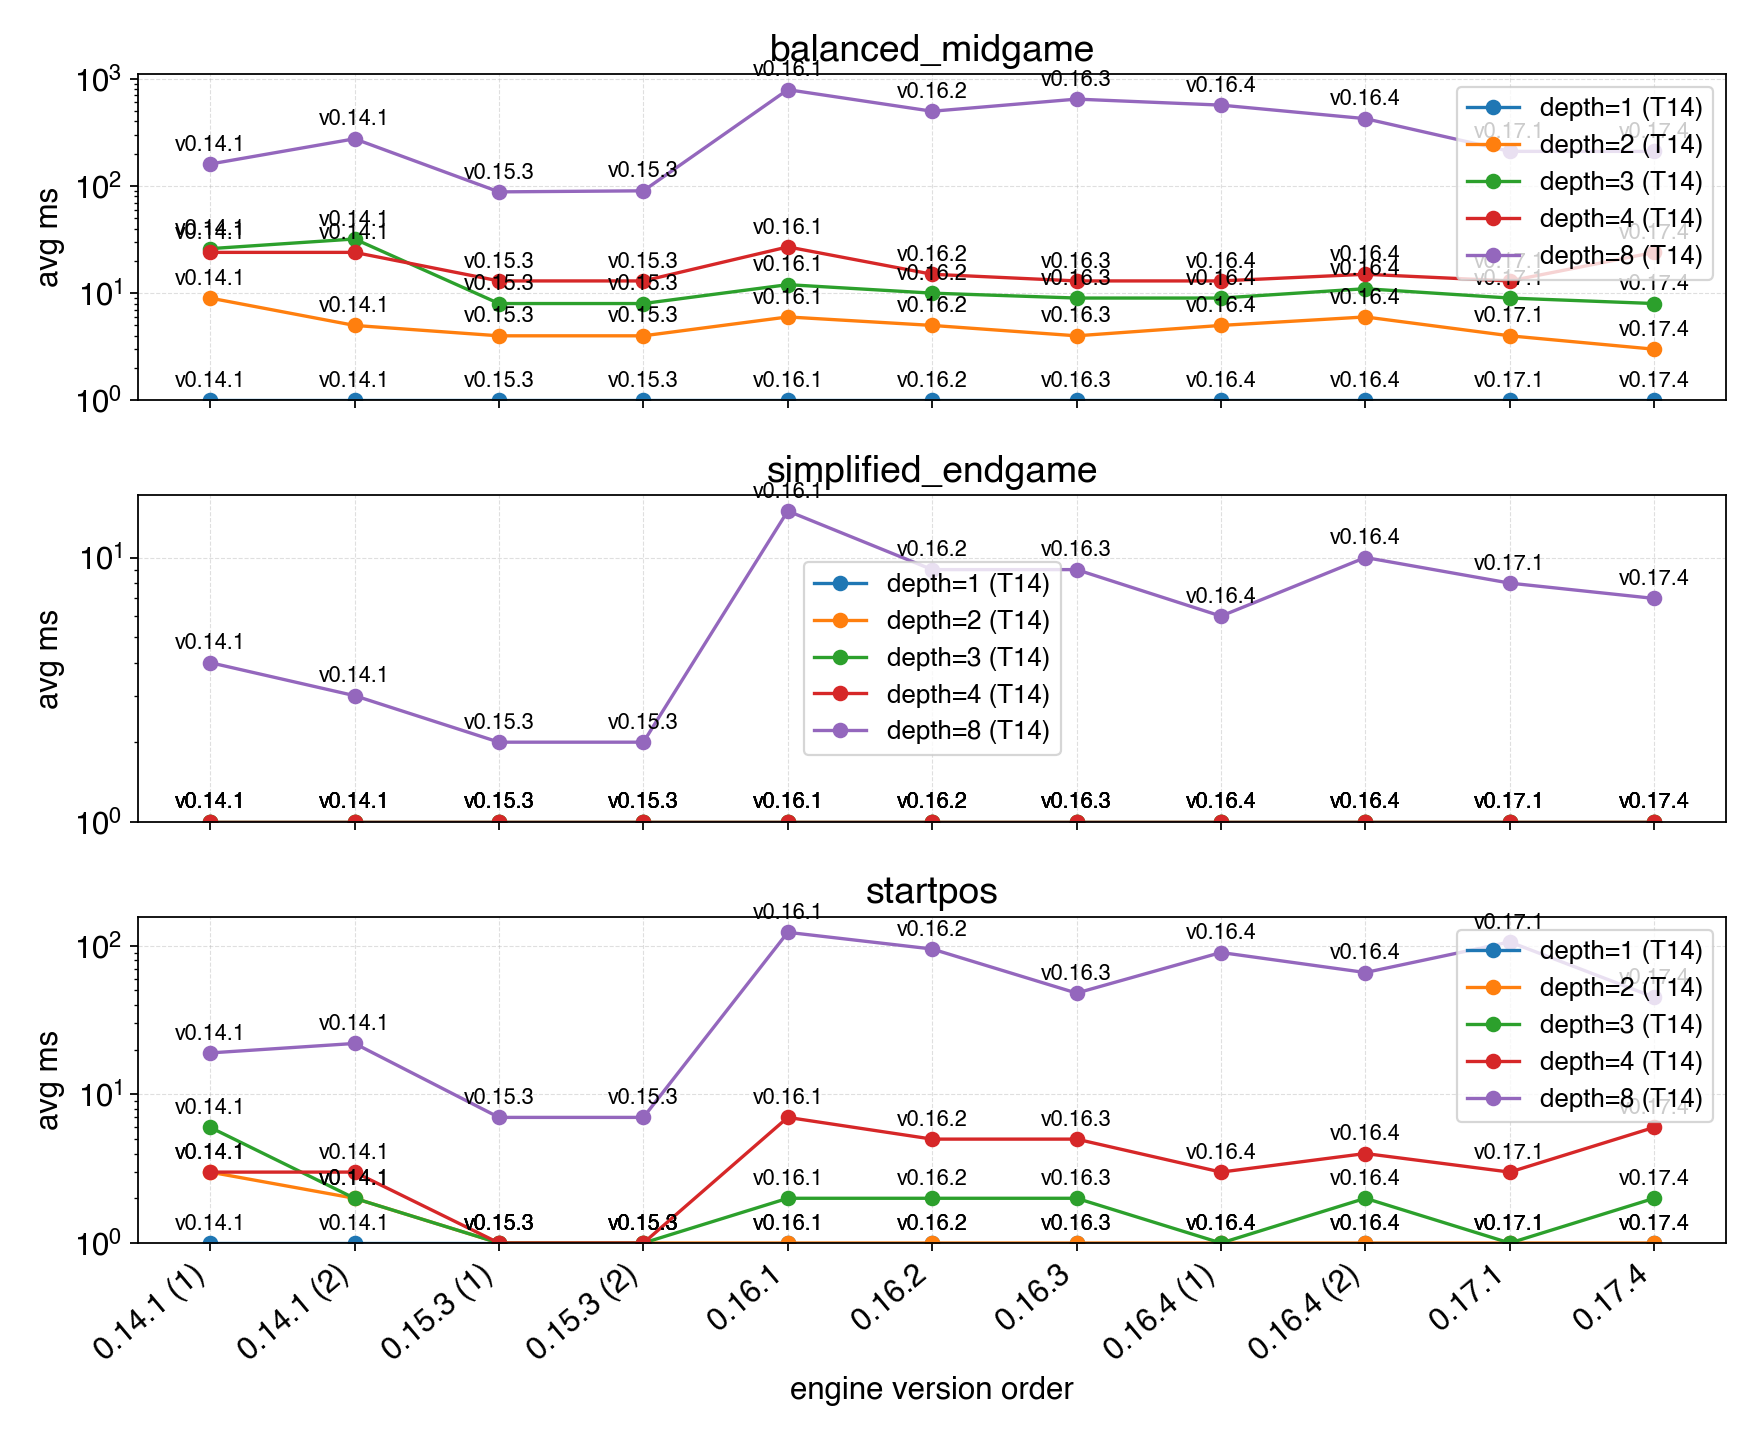
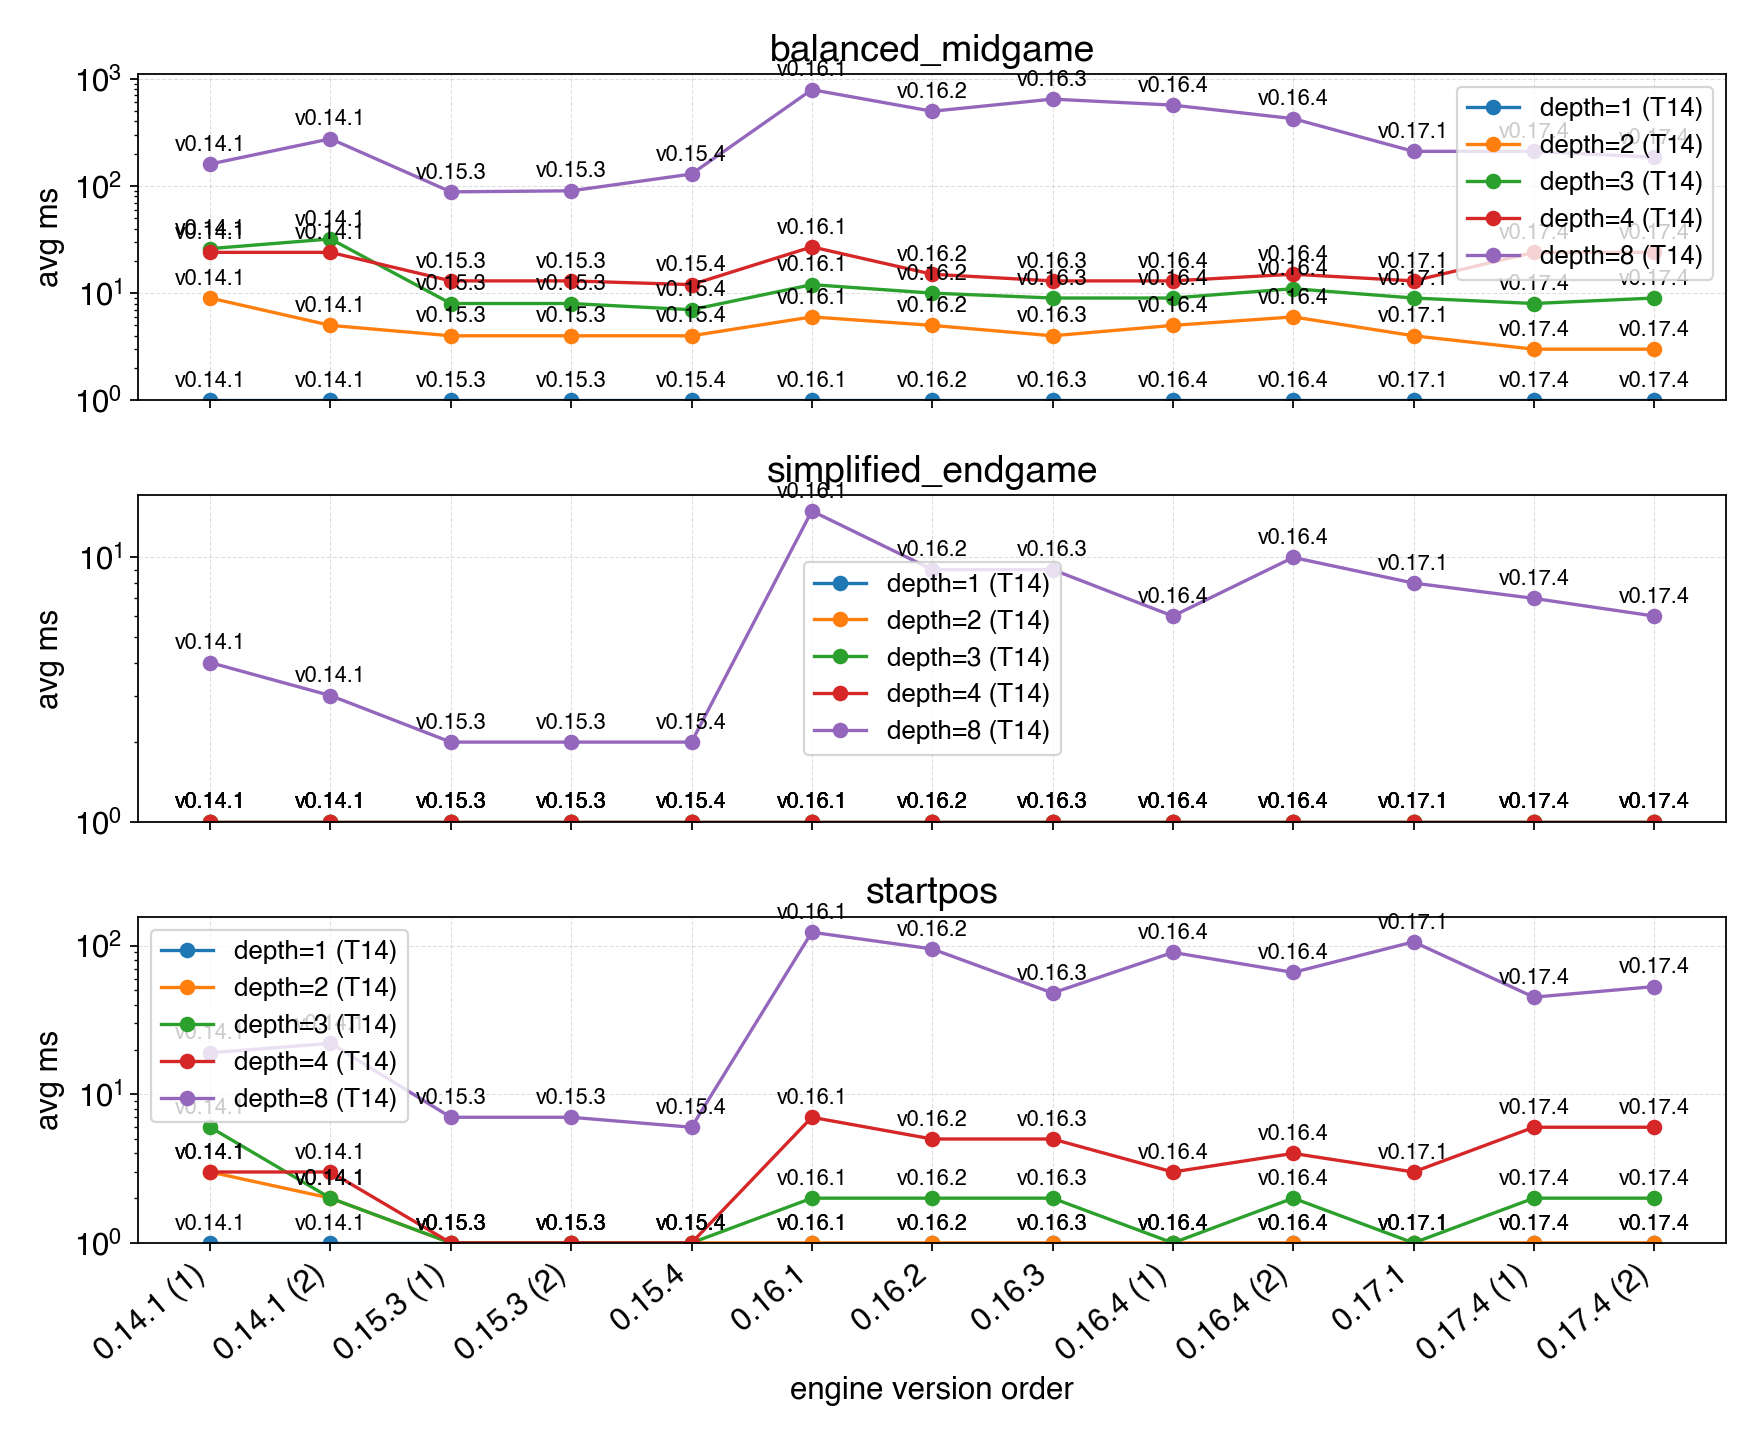
uci go infinite

diff --git a/src/uci.cpp b/src/uci.cpp
@@ -351,6 +351,7 @@ struct GoParameters {
   chess::SearchLimits limits;
   bool ponder = false;
   bool depth_explicit = false;
+  bool infinite = false;
 };
 
 std::atomic<int> g_info_depth_cap{0};
@@ -378,6 +379,7 @@ GoParameters parse_go_arguments(std::string_view args, int fallback_depth) {
   bool have_increment = false;
   bool have_movetime = false;
   bool ponder = false;
+  bool infinite = false;
 
   while (stream >> token) {
     if (token == "depth") {
@@ -425,8 +427,8 @@ GoParameters parse_go_arguments(std::string_view args, int fallback_depth) {
         parsed.limits.moves_to_go = mtg;
       }
     } else if (token == "infinite") {
-      parsed.depth = fallback_depth;
-      have_depth = true;
+      infinite = true;
+      parsed.infinite = true;
     } else if (token == "ponder") {
       ponder = true;
     } else if (token == "nodes") {
@@ -438,7 +440,9 @@ GoParameters parse_go_arguments(std::string_view args, int fallback_depth) {
     }
   }
 
-  if (have_movetime) {
+  if (infinite) {
+    parsed.limits = chess::SearchLimits{};
+  } else if (have_movetime) {
     parsed.limits.use_time = true;
   } else if (have_wtime || have_btime || have_increment ||
              parsed.limits.moves_to_go > 0) {
@@ -446,7 +450,8 @@ GoParameters parse_go_arguments(std::string_view args, int fallback_depth) {
     parsed.limits.per_move = false;
   }
 
-  if (!have_depth && !parsed.limits.use_time) {
+  if (!have_depth && !parsed.limits.use_time && !parsed.limits.use_nodes &&
+      !infinite) {
     parsed.depth = fallback_depth;
   }
 
@@ -935,7 +940,9 @@ void run_uci_loop(Engine& engine, int default_depth,
         continue;
       }
       SearchParameters params{};
-      if (go_params.limits.use_time || go_params.limits.use_nodes) {
+      if (go_params.infinite) {
+        params.depth = static_cast<int>(MAX_PLY) - 1;
+      } else if (go_params.limits.use_time || go_params.limits.use_nodes) {
         if (!go_params.depth_explicit) {
           params.depth = static_cast<int>(MAX_PLY) - 1;
         } else {

diff --git a/include/chess/version.hpp b/include/chess/version.hpp
@@ -6,7 +6,7 @@
 namespace chess {
 
 inline constexpr std::string_view kEngineName = "skaks";
-inline constexpr std::string_view kEngineVersion = "0.17.4";
+inline constexpr std::string_view kEngineVersion = "0.17.5";
 
 inline constexpr std::array<std::string_view, 19> kOptimizationFeatures{
     "Bitboard move generation with precomputed attack masks",
@@ -22,7 +22,7 @@ inline constexpr std::array<std::string_view, 19> kOptimizationFeatures{
     "Null move pruning, 2-ply historical heuristic and SEE sorting",
     "Time management for search limits",
     "Added MVV-LVA and SEE for capture move ordering",
-    "Threaded UCI search support, with pondering",
+    "Threaded UCI search support, with pondering, go time, nodes and infinite",
     "Parameter loading from external file",
     "SIMD optimizations for bitboard operations and threads",
     "Incremental eval NNUE from Stockfish",
